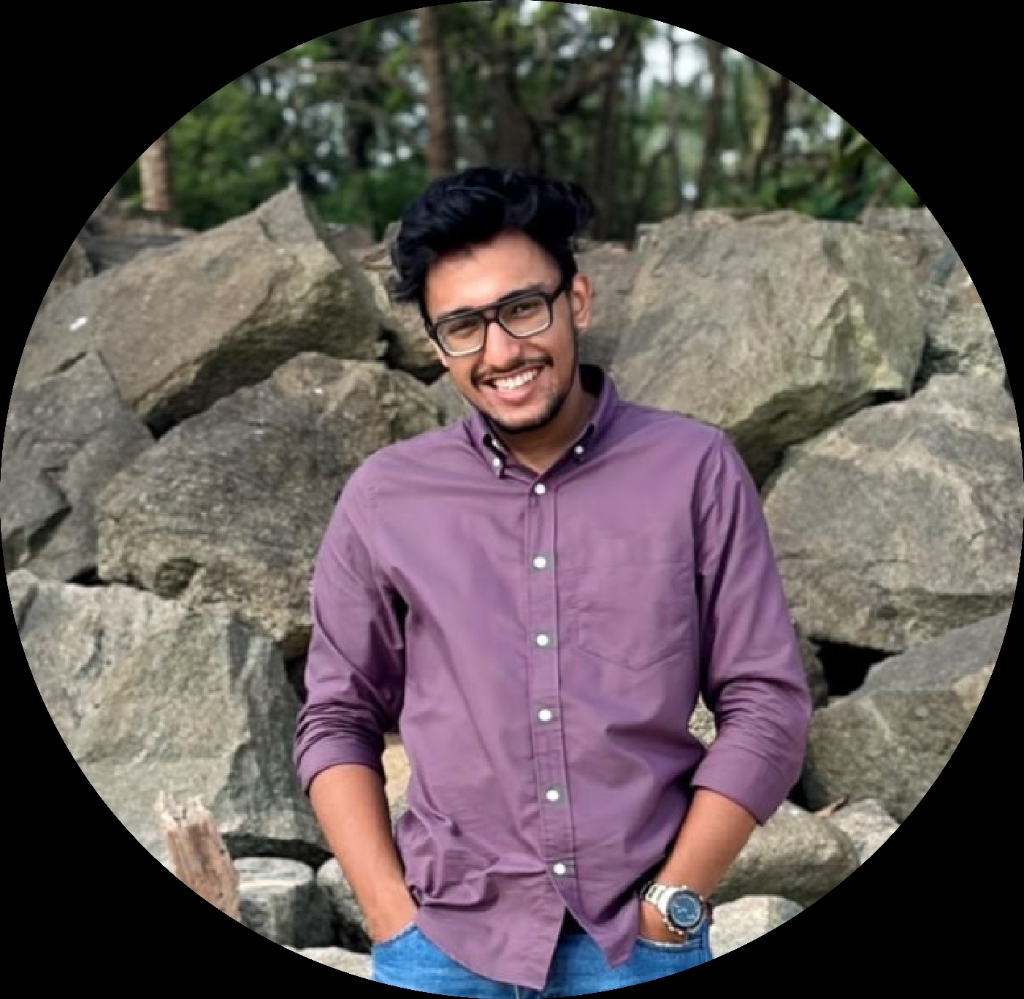
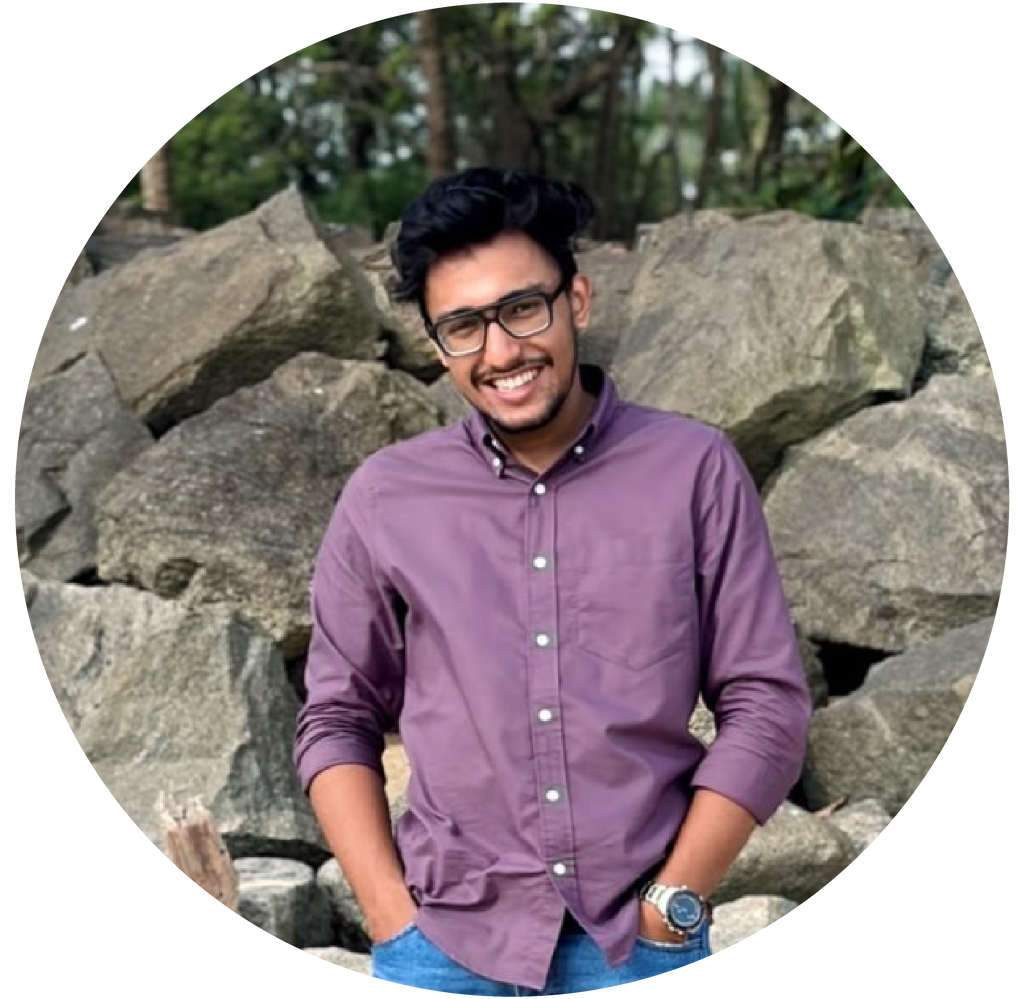
Remove black background around hero circular portrait and make transparent

Changed region(s): [[0.0, 0.0, 1.0, 1.0]]

diff --git a/src/routes/index.tsx b/src/routes/index.tsx
@@ -148,7 +148,7 @@ function Index() {
           </div>
 
           <div className="reveal relative mx-auto flex w-full max-w-[320px] items-end justify-center self-end md:self-center">
-            <img src={layiqCharacter} alt="Portrait of Layiq M" className="relative z-10 w-full object-contain drop-shadow-character -translate-x-4 -translate-y-10" />
+            <img src={layiqCharacter} alt="Portrait of Layiq M" className="relative z-10 w-full aspect-square rounded-full object-cover drop-shadow-character" />
           </div>
         </header>
 
